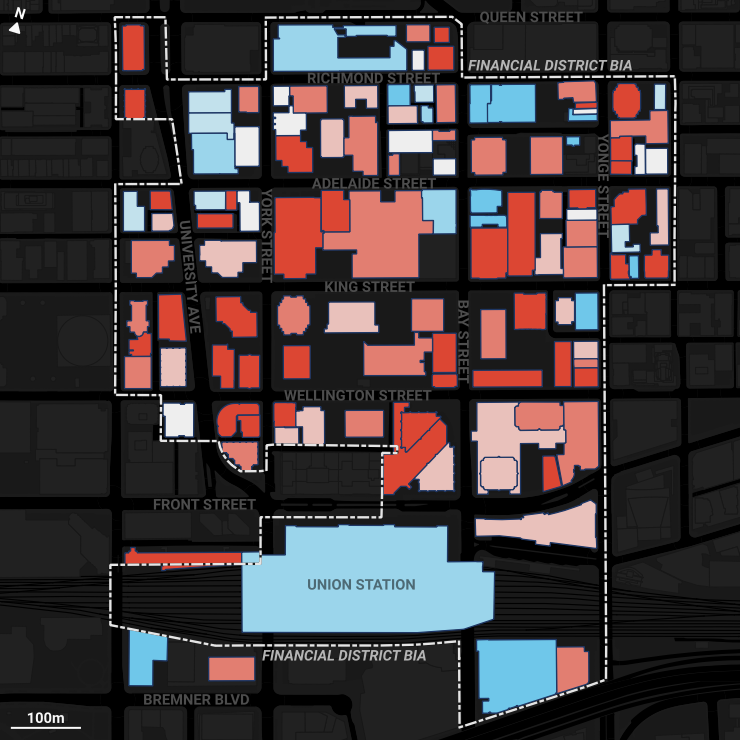
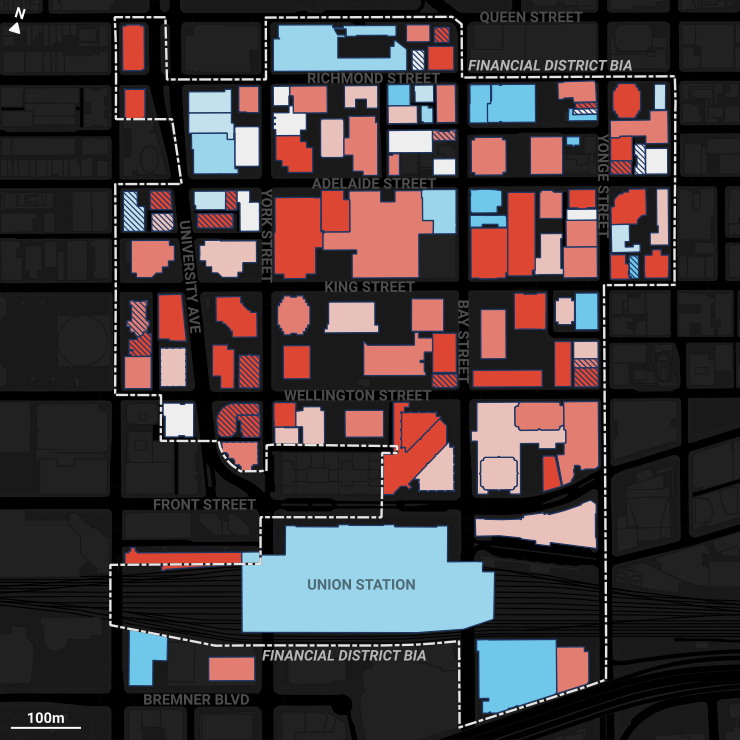
sample hatch to map

diff --git a/src/routes/blog/toronto-buildings/+page.svelte b/src/routes/blog/toronto-buildings/+page.svelte
@@ -20,7 +20,7 @@
 
         <h3>Understanding post-pandemic recovery for individual buildings </h3>
 
-        <p>By <a href="https://schoolofcities.utoronto.ca/people/byeonghwa-jeong/">Byeonghwa Jeong</a>, <a href="https://schoolofcities.utoronto.ca/people/karen-chapple/">Karen Chapple</a> & <a href="http://jamaps.github.io/">Jeff Allen</a> | December 15, 2023</p> 
+        <p>By <a href="https://schoolofcities.utoronto.ca/people/byeonghwa-jeong/">Byeonghwa Jeong</a>, <a href="https://schoolofcities.utoronto.ca/people/karen-chapple/">Karen Chapple</a> & <a href="http://jamaps.github.io/">Jeff Allen</a> | January 4, 2024</p> 
 
         <p>
             On this website, we've tracked post-pandemic recovery patterns in the downtowns of many North American cities, based on location-based mobility data from cell phones supplied by Spectus. While we've <a href="/charts/rankings">compared recovery across different cities</a>, as well as created a tool to <a href="/blog/downtown-definitions">explore how results vary for different definitions of downtown</a>, policymakers often need more fine-grained data to determine how recovery is progressing at the city block or individual building level.
@@ -29,11 +29,10 @@
             On this page, we examine recovery rates (comparing activity in Spring 2023 to Spring 2019) for 119 buildings located in the Toronto Financial District Business Improvement Area (BIA). Most buildngs in this BIA are either office (45%), mixed-use office plus retail (33%), or retail only (11%) buildings. The map below reveals substantial variation in recovery across the area. The darker the red, the lower activity in 2023 compared to 2019, and the darker the blue, the higher the rate of recovery.
         </p>
         
-
         <MapTorontoRecovery/>
 
         <p>
-            Specifically, to estimate the recovery rate of each building, we counted the total unique daily visitors from March to May 2023, dividing it by the total unique daily visitors in corresponding months in 2019. Before dividing, both totals were normalized by the total number of unique devices in the City of Toronto, to account for changing sampling rates over time. For more details on how we are measuring recovery from Spectus data, view our  <a href="/methodology">methodology</a> page.
+            Specifically, to estimate the recovery rate of each building, we counted the total unique daily visitors from March to May 2023, dividing it by the total unique daily visitors in corresponding months in 2019. Before dividing, both totals were normalized by the total number of unique devices in the City of Toronto, to account for changing sampling rates over time. For both time periods, the average daily sampling rate was in the range of 1-2% of the overall population. For more details on how we are measuring recovery from Spectus data, view our  <a href="/methodology">methodology</a> page.
         </p>
 
         <p>  

diff --git a/src/routes/blog/toronto-buildings/lib/MapTorontoRecovery.svelte b/src/routes/blog/toronto-buildings/lib/MapTorontoRecovery.svelte
@@ -12,7 +12,7 @@
 <div class="legendContainer">
 	<h2>Toronto Financial District BIA</h2>
 	<p>Recovery Rate % (2023 versus 2019)</p>
-	<svg class="legend" width="350" height="35" xmlns="http://www.w3.org/2000/svg">
+	<svg class="legend" width="370" height="65" xmlns="http://www.w3.org/2000/svg">
 		{#each legendColours as colour, index}
 			<rect
 				x={index * 50}
@@ -37,6 +37,41 @@
 				{text}
 			</text>
 		{/each}
+
+		<defs>
+			<pattern id="diagonalHatch" patternUnits="userSpaceOnUse" width="4" height="4" patternTransform="rotate(-45)">
+				<line x1="0" y1="0" x2="0" y2="4" style="stroke:#1E3765;stroke-width:2" />
+			</pattern>
+		</defs>		
+		<rect
+			x="0"
+			y="45"
+			width="50"
+			height="15"
+			fill="#eeeeee"
+			stroke="#191919"
+			stroke-width="1"
+		/>
+		<rect
+			x="0"
+			y="45"
+			width="50"
+			height="15"
+			fill="url(#diagonalHatch)"
+			stroke="#191919"
+			stroke-width="0"
+		/>
+		<text
+			x="55" 
+			y="58"
+			fill="#ffffff"
+			font-size="14"
+			text-anchor="start"
+			font-family="Roboto"
+			opacity="0.7"
+			>
+			Building with low sample, treat result with caution
+		</text>
 	</svg>
 </div>
 
